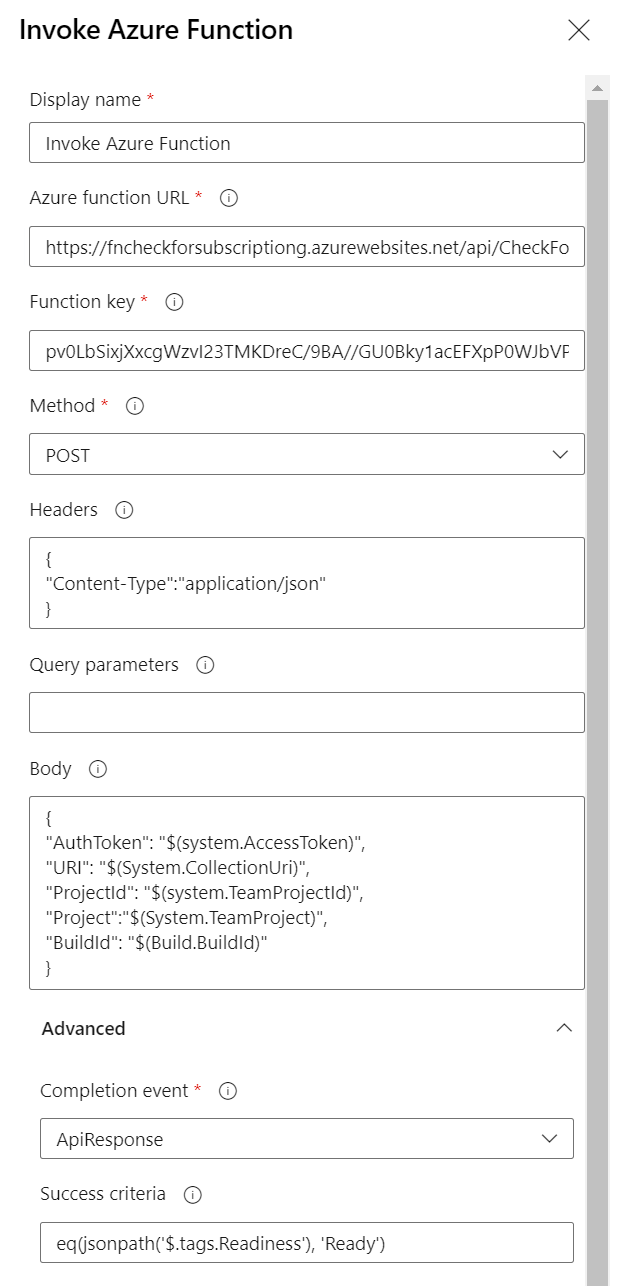
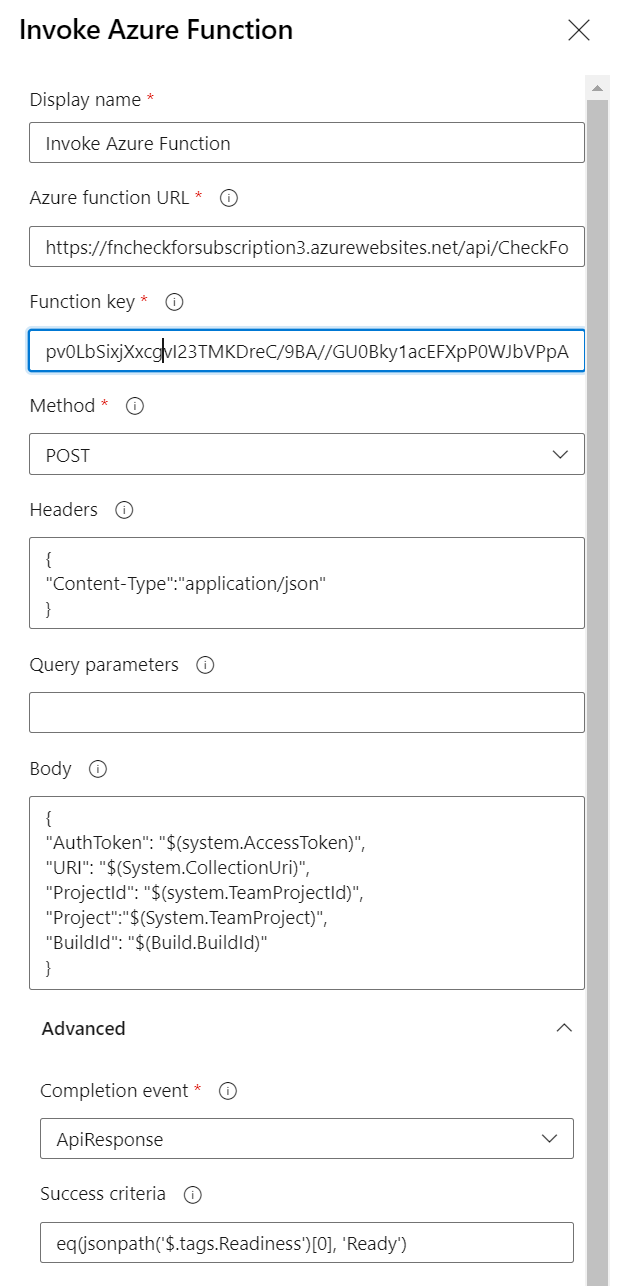
success criteria tweak

Changed region(s): [[0.0304, 0.2488, 0.9424, 0.311], [0.4864, 0.1866, 0.8816, 0.2177], [0.5168, 0.9642, 0.6384, 0.9953]]

diff --git a/Gate Success Evaluation.md b/Gate Success Evaluation.md
@@ -1,0 +1,69 @@
+# Gate Success Evaluation
+
+Elaborating on the Azure Function Gate Success Criteria Evaluation a little more.
+
+## Success Criteria used
+Taking this gate criteria as the example
+```
+eq(jsonpath('$.tags.Readiness')[0], 'Ready')
+```
+
+## Request Body
+
+```json
+{
+  "AuthToken": ***,
+  "URI": "https://gdoggmsft.visualstudio.com/",
+  "ProjectId": "f3456883-1628-4307-bad5-c98c89fddad5",
+  "Project": "EntScaleT9",
+  "BuildId": "3217"
+}
+```
+
+## Response Received
+
+```json
+ {
+  "subName": "gobyers-int",
+  "subfound": true,
+  "subId": "REDACTED",
+  "subState": "Enabled",
+  "tags": {
+    "Readiness": "Ready",
+    "FavouriteColour": "Red"
+  }
+
+```
+
+## Criteria Evaluation
+
+```
+Parsing expression: <eq(jsonpath('$.tags.Readiness')[0], 'Ready')>
+				eq
+				(
+				..jsonpath
+				(
+				....'$.tags.Readiness'
+				..)
+				..[
+				....0
+				..]
+				..,
+				..'Ready'
+				)
+				Evaluating: eq(jsonpath('$.tags.Readiness')[0], 'Ready')
+				Evaluating eq:
+				..Evaluating indexer:
+				....Evaluating jsonpath:
+				......Evaluating String:
+				......=> '$.tags.Readiness'
+				....=> Array
+				....Evaluating Number:
+				....=> 0
+				..=> 'Ready'
+				..Evaluating String:
+				..=> 'Ready'
+				=> True
+				Expanded: eq('Ready', 'Ready')
+				Result: True
+```

diff --git a/README.md b/README.md
@@ -51,7 +51,7 @@ eq(root['subfound'], 'true')
 For a more advanced check, based on *Subscription Tag value*
 
 ```
-eq(jsonpath('$.tags.Readiness'), 'Ready')
+eq(jsonpath('$.tags.Readiness')[0], 'Ready')
 ```
 
 ![azure devops gate screengrab](docassets/ado-gate.png)
